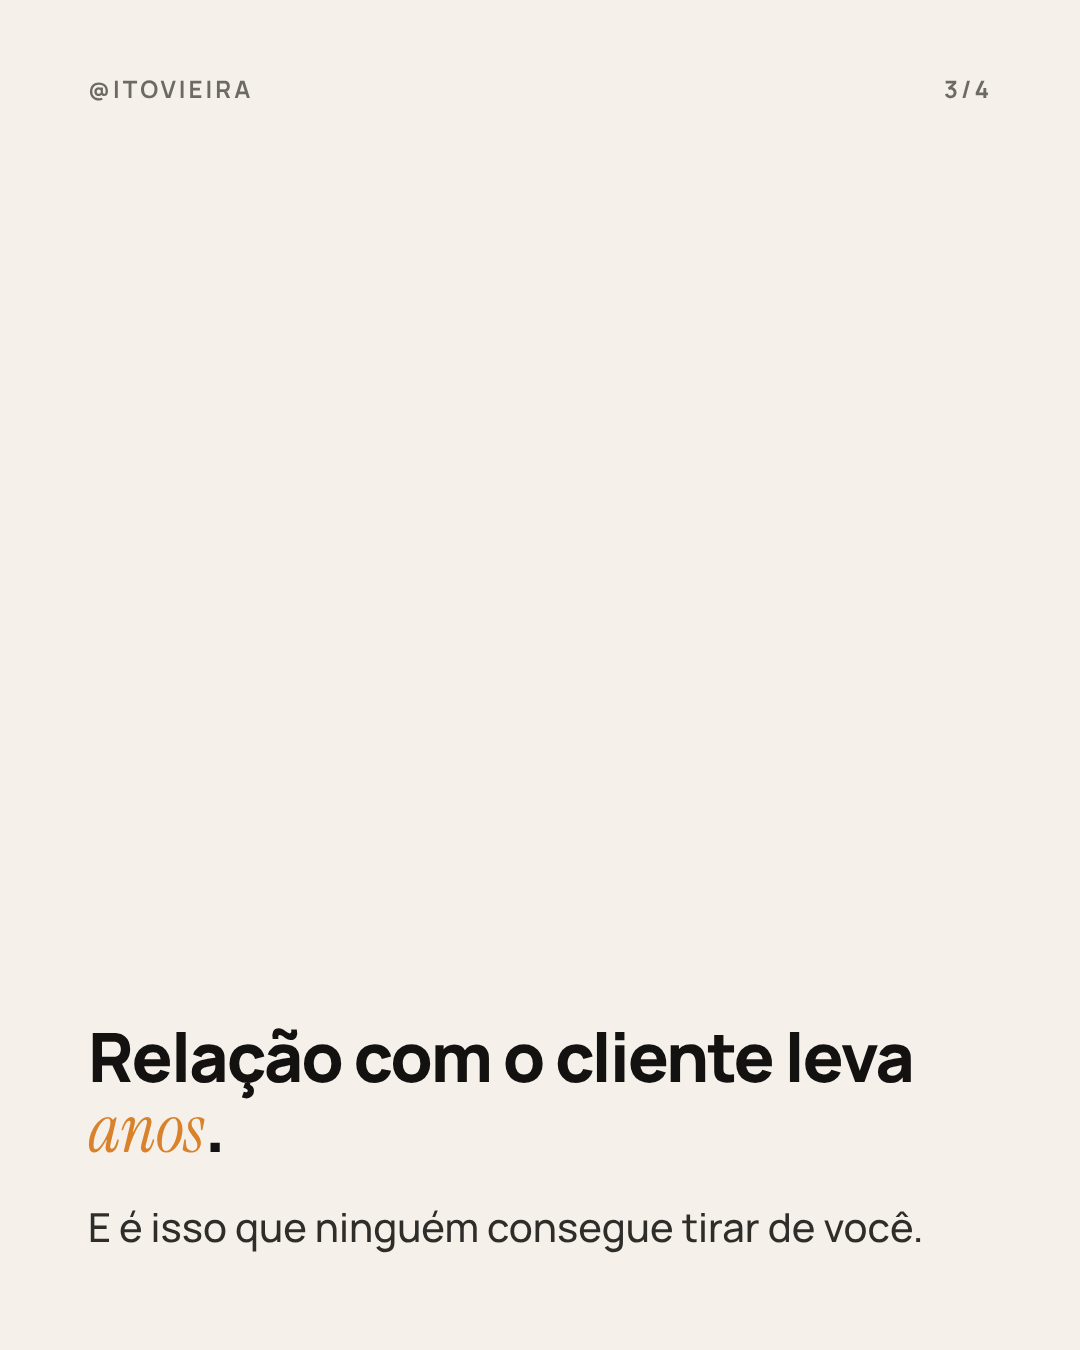
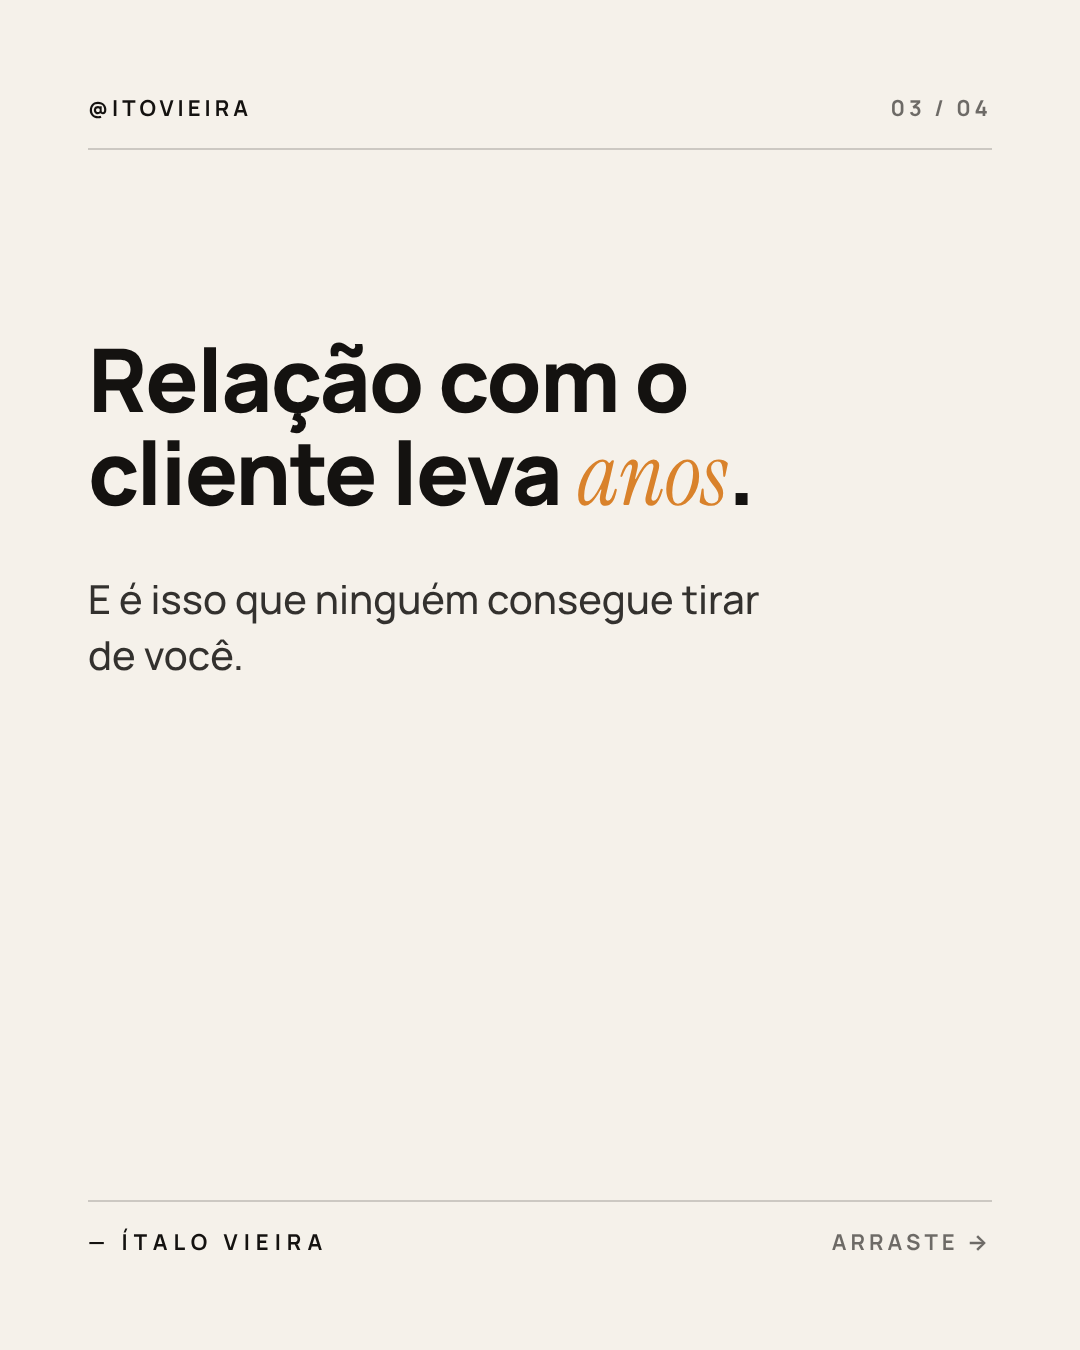
fix: rebuild carousel template on a fixed grid
Fixed margins, header and footer rows, title at a constant height,
auto-fit title size and a photo cover that keeps text off the face.

Claude-Session: https://claude.ai/code/session_0134Bsiw3yeooDui7C4eT4QC

diff --git a/equipe-itovieira/modelos/carrossel.html b/equipe-itovieira/modelos/carrossel.html
@@ -5,32 +5,49 @@
 <title>Carrossel @itovieira</title>
 <link rel="stylesheet" href="https://fonts.googleapis.com/css2?family=Manrope:wght@500;700;800&family=Instrument+Serif:ital@1&display=block">
 <style>
-  :root { --carvao:#141210; --areia:#EFE9E1; --offwhite:#F5F1EA; --cobre:#D9822B; }
+  /* Grid fixo: 1080x1350, margem 88px, cabeçalho e rodapé em linhas fixas,
+     título sempre começando na mesma altura. Nada se move de um slide para outro. */
+  :root { --carvao:#141210; --areia:#EFE9E1; --offwhite:#F5F1EA; --cobre:#D9822B;
+          --m:88px; --topo-titulo:332px; }
   * { box-sizing:border-box; margin:0; padding:0; }
   body { background:#000; font-family:Manrope, Inter, sans-serif; }
-  .slide { width:1080px; height:1350px; position:relative; overflow:hidden; padding:96px 88px;
-           display:flex; flex-direction:column; justify-content:flex-end; }
-  .escuro { background:var(--carvao); color:var(--areia); }
-  .claro { background:var(--offwhite); color:var(--carvao); }
-  .foto { position:absolute; inset:0; background-size:cover; background-position:center; }
-  .foto::after { content:""; position:absolute; inset:0;
-                 background:linear-gradient(180deg, rgba(20,18,16,0) 30%, rgba(20,18,16,.92) 78%); }
-  .conteudo { position:relative; }
-  h1 { font-weight:800; font-size:92px; line-height:1.02; letter-spacing:-2px; }
-  .texto h1 { font-size:68px; }
-  p { font-weight:500; font-size:40px; line-height:1.35; margin-top:36px; opacity:.88; }
+  .slide { width:1080px; height:1350px; position:relative; overflow:hidden; }
+  .escuro { background:var(--carvao); color:var(--areia); --linha:rgba(239,233,225,.22); }
+  .claro { background:var(--offwhite); color:var(--carvao); --linha:rgba(20,18,16,.18); }
+
+  .cabecalho, .rodape { position:absolute; left:var(--m); right:var(--m); display:flex;
+          justify-content:space-between; align-items:center;
+          font-weight:700; font-size:22px; letter-spacing:4px; text-transform:uppercase; }
+  .cabecalho { top:var(--m); height:40px; border-bottom:2px solid var(--linha); padding-bottom:20px; box-sizing:content-box; }
+  .rodape { bottom:var(--m); height:40px; border-top:2px solid var(--linha); padding-top:20px; box-sizing:content-box; }
+  .cabecalho span:last-child, .rodape .seta { opacity:.6; }
+  .rodape .assinatura { letter-spacing:6px; }
+
+  .conteudo { position:absolute; left:var(--m); right:var(--m); top:var(--topo-titulo); }
+  .kicker { font-weight:700; font-size:24px; letter-spacing:4px; text-transform:uppercase;
+            color:var(--cobre); margin-bottom:40px; }
+  h1 { font-weight:800; font-size:var(--fs, 88px); line-height:1.06; letter-spacing:-0.02em;
+       text-wrap:balance; }
+  p { font-weight:500; font-size:40px; line-height:1.4; margin-top:48px; max-width:820px;
+      opacity:.86; text-wrap:pretty; }
   em { font-family:"Instrument Serif", Georgia, serif; font-style:italic; font-weight:400;
        color:var(--cobre); letter-spacing:0; }
-  .topo { position:absolute; top:72px; left:88px; right:88px; display:flex; justify-content:space-between;
-          font-weight:700; font-size:24px; letter-spacing:3px; opacity:.6; }
-  .assinatura { margin-top:64px; font-weight:800; font-size:28px; letter-spacing:6px; }
-  .final { justify-content:center; }
+
+  /* Capa: título maior; com foto, o bloco de texto encosta no rodapé, mesmas margens. */
+  .capa h1 { --fs:96px; }
+  .com-foto .conteudo { top:auto; bottom:calc(var(--m) + 60px + 64px); }
+  .foto { position:absolute; left:0; right:0; top:0; height:900px; background-size:cover; background-position:center 18%; }
+  .foto::after { content:""; position:absolute; inset:0;
+                 background:linear-gradient(180deg, rgba(20,18,16,.6) 0%, rgba(20,18,16,0) 20%,
+                                            rgba(20,18,16,0) 55%, var(--carvao) 100%); }
+  .com-foto .cabecalho { border-bottom-color:transparent; }
+  .final h1 { --fs:80px; }
 </style>
 </head>
 <body>
 <main id="carrossel"></main>
 <script>
-  // Recebe { slides:[{tipo,titulo,corpo,destaque,foto}], tema } e desenha um .slide por item.
+  // Recebe { slides:[{tipo,kicker,titulo,corpo,destaque,foto,tema}], tema } e desenha um .slide por item.
   function escapar(s) { return String(s ?? '').replace(/[&<>"]/g, c => ({'&':'&amp;','<':'&lt;','>':'&gt;','"':'&quot;'}[c])); }
   function destacar(texto, palavra) {
     const t = escapar(texto);
@@ -39,20 +56,35 @@
     const i = t.toLowerCase().indexOf(p.toLowerCase());
     return i < 0 ? t : t.slice(0, i) + '<em>' + t.slice(i, i + p.length) + '</em>' + t.slice(i + p.length);
   }
+  const dois = n => String(n).padStart(2, '0');
   window.renderCarrossel = function ({ slides, tema = 'escuro' }) {
     const total = slides.length;
     document.getElementById('carrossel').innerHTML = slides.map((s, i) => {
-      const fundo = s.tema || (s.foto ? 'escuro' : tema);
-      return `<section class="slide ${fundo} ${s.tipo || 'texto'}">
+      const fundo = s.foto ? 'escuro' : (s.tema || tema);
+      const ultimo = i === total - 1;
+      return `<section class="slide ${fundo} ${s.tipo || 'texto'} ${s.foto ? 'com-foto' : ''}">
         ${s.foto ? `<div class="foto" style="background-image:url('${escapar(s.foto)}')"></div>` : ''}
-        <div class="topo"><span>@ITOVIEIRA</span><span>${i + 1}/${total}</span></div>
+        <header class="cabecalho"><span>@itovieira</span><span>${dois(i + 1)} / ${dois(total)}</span></header>
         <div class="conteudo">
+          ${s.kicker ? `<div class="kicker">${escapar(s.kicker)}</div>` : ''}
           <h1>${destacar(s.titulo, s.destaque)}</h1>
           ${s.corpo ? `<p>${escapar(s.corpo)}</p>` : ''}
-          ${s.tipo === 'final' ? '<div class="assinatura">— ÍTALO VIEIRA</div>' : ''}
         </div>
+        <footer class="rodape"><span class="assinatura">— Ítalo Vieira</span><span class="seta">${ultimo ? 'Salve e compartilhe' : 'Arraste →'}</span></footer>
       </section>`;
     }).join('');
+    // Reduz o título até caber entre o topo do conteúdo e o rodapé, sem nunca sair do grid.
+    document.querySelectorAll('.slide').forEach(sl => {
+      const c = sl.querySelector('.conteudo'), h = sl.querySelector('h1'), r = sl.querySelector('.rodape');
+      let fs = parseFloat(getComputedStyle(h).fontSize);
+      const comFoto = sl.classList.contains('com-foto');
+      const estourou = () => comFoto
+        ? c.getBoundingClientRect().top < 760
+        : c.getBoundingClientRect().bottom > r.getBoundingClientRect().top - 64;
+      while (estourou() && fs > 44) {
+        fs -= 2; h.style.setProperty('--fs', fs + 'px');
+      }
+    });
   };
 </script>
 </body>

diff --git a/equipe-itovieira/agentes/designer/SKILL.md b/equipe-itovieira/agentes/designer/SKILL.md
@@ -28,6 +28,16 @@ Você monta o carrossel exatamente no padrão de `../../marca.md` (carvão, arei
 }
 ```
 
+## Grid (não mexer)
+
+- Formato 1080×1350, margem de 88 px nos quatro lados.
+- Cabeçalho fixo no topo (@ITOVIEIRA à esquerda, `01 / 07` à direita, filete embaixo).
+- Rodapé fixo (— ÍTALO VIEIRA à esquerda, "Arraste →" ou "Salve e compartilhe" à direita, filete em cima).
+- Título sempre começa na mesma altura (332 px) e alinhado à esquerda; kicker em cobre acima dele.
+- Capa com foto: foto no topo, texto no terço de baixo, sem sobrepor o rosto.
+- O modelo reduz o título sozinho se não couber. Se ficar abaixo de 56 px, o texto está longo demais: volte ao Copy.
+- Confira sempre os slides lado a lado: cabeçalho, título e rodapé devem cair na mesma linha em todos.
+
 ## Regras
 
 - Fotos só de `entrada/fotos/` ou `italo-referencias/rosto/` (reais do Ítalo; ver "Referências fixas" no `README.md`). Se não houver foto adequada, use slide só de texto, nunca banco de imagem.
